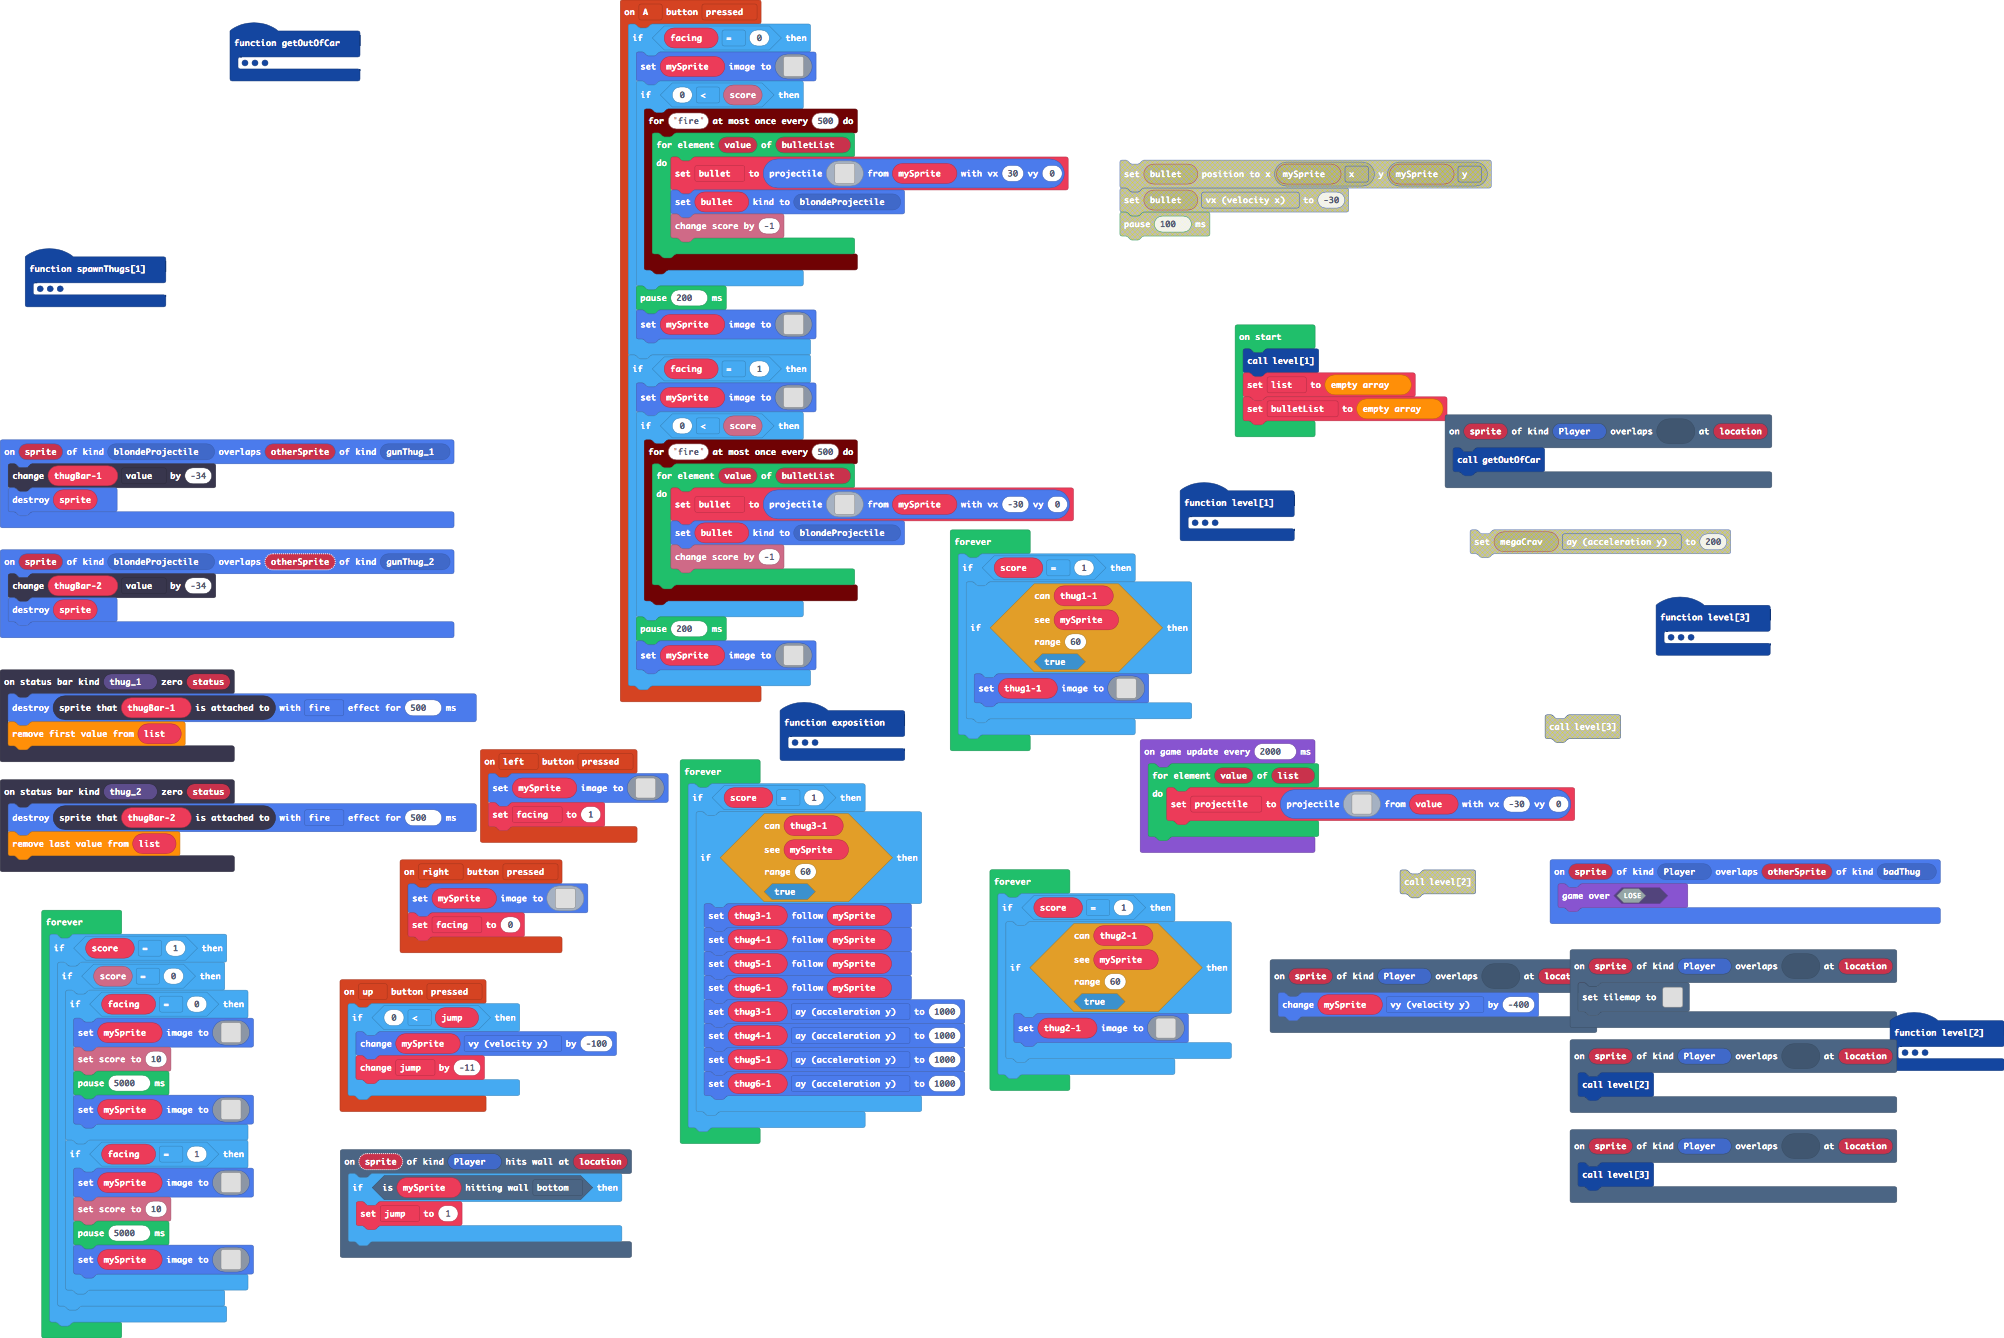
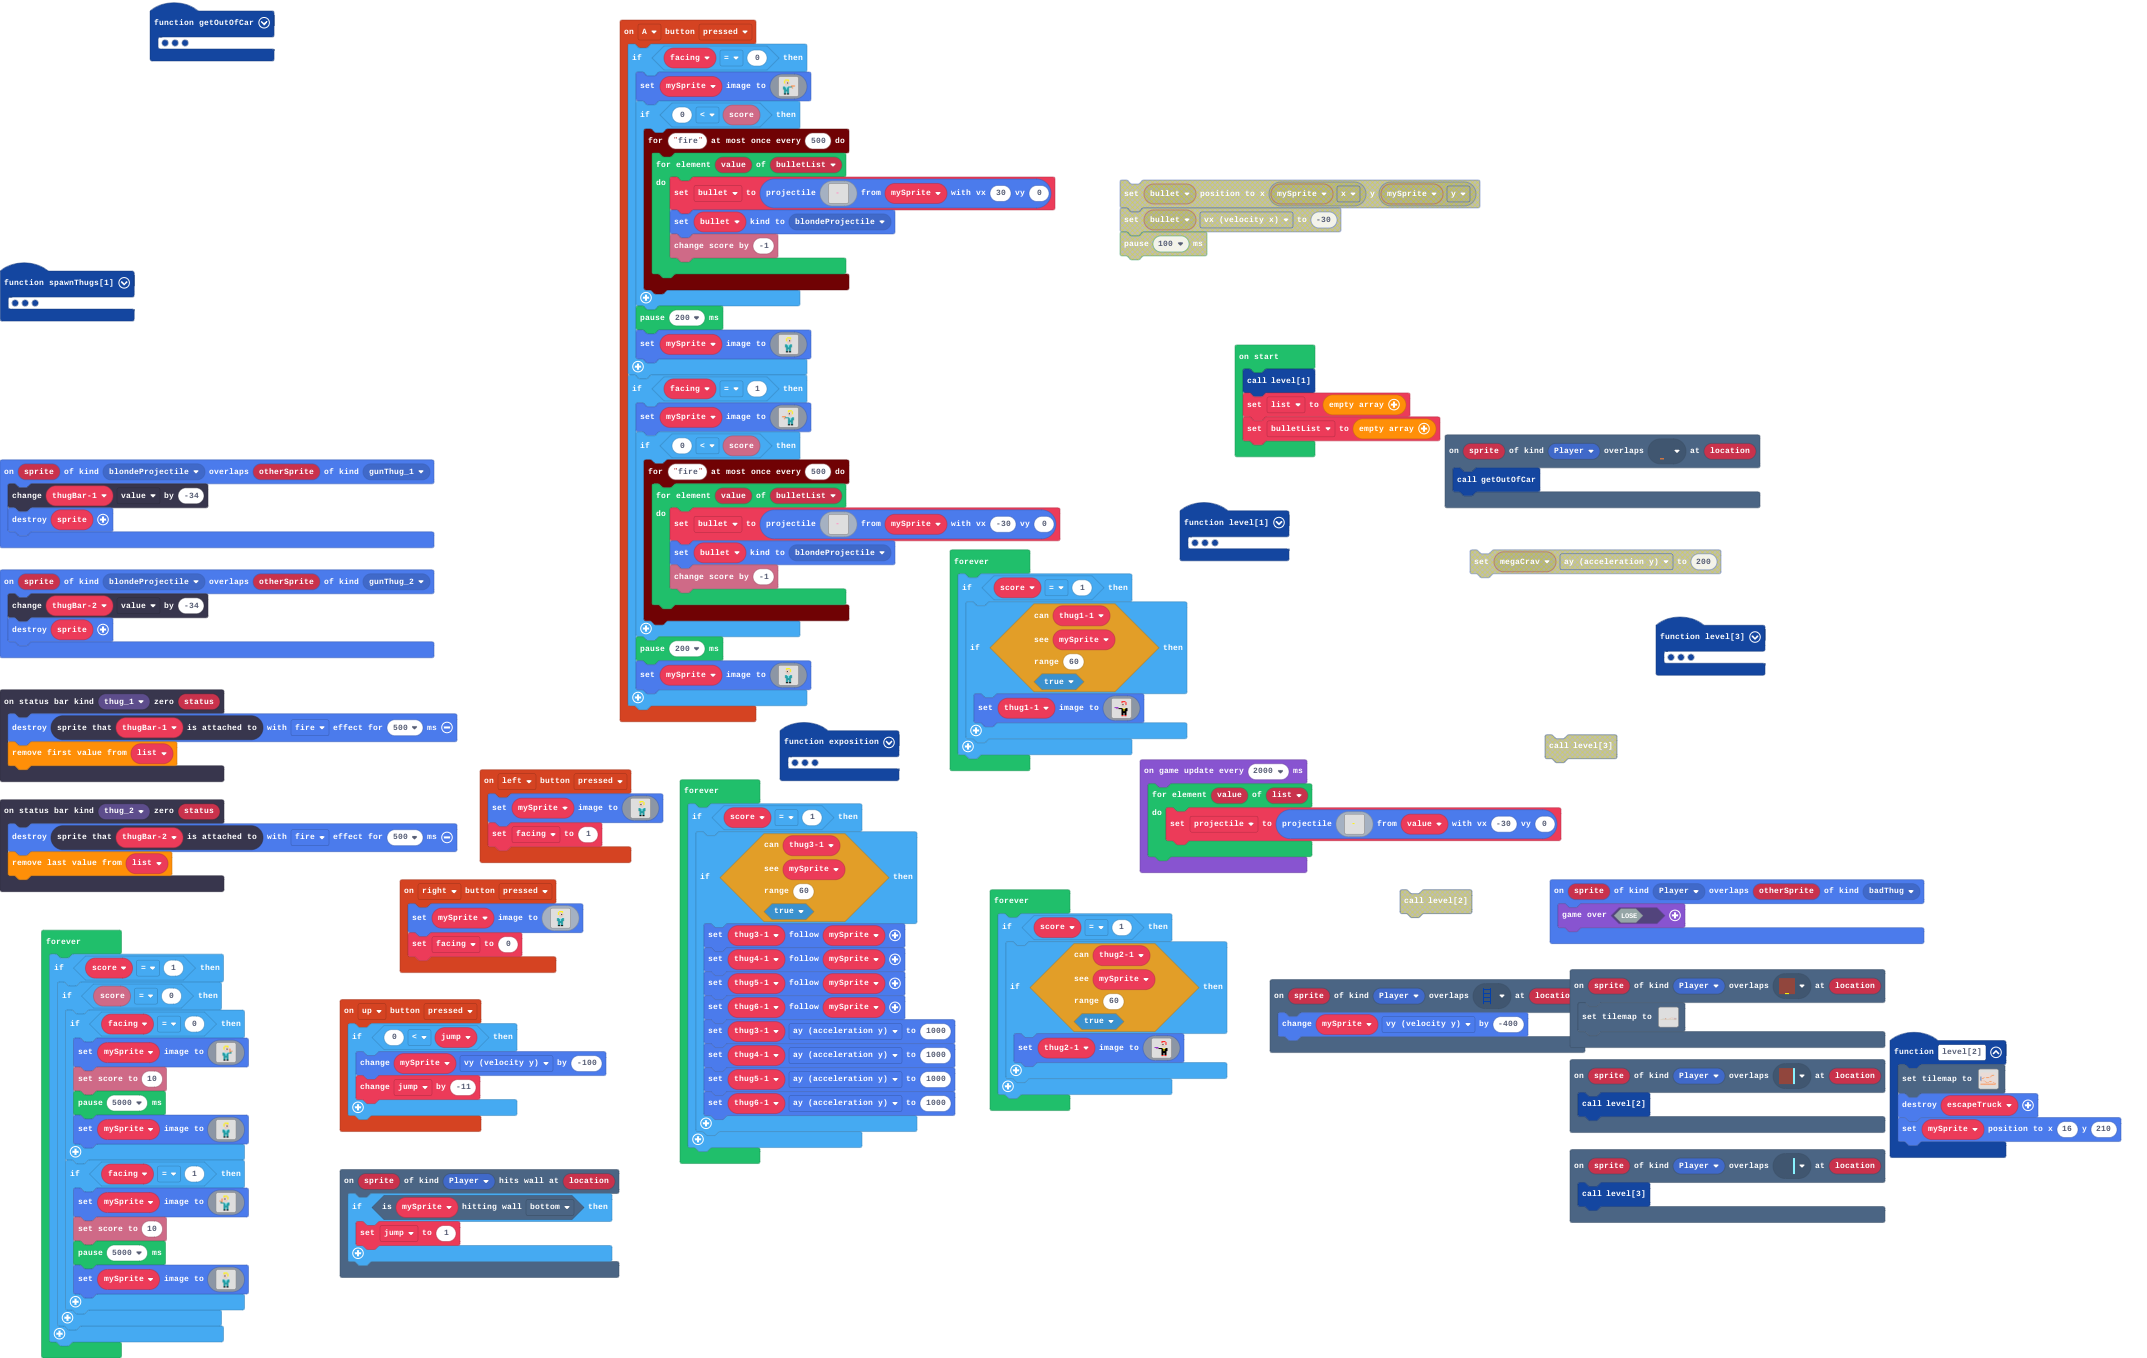
Update main.blocks, main.ts, tilemap.g.ts

diff --git a/tilemap.g.ts b/tilemap.g.ts
@@ -326,6 +326,25 @@ namespace myTiles {
 . . . . . . . . . . . . . . . . 
 . . . . . . . . . . . . . . . . 
 `, [myTiles.transparency16], TileScale.Sixteen);
+            case "level15":
+            case "level15":return tiles.createTilemap(hex`1000100000000000000000000000000000000000000000000000000000000000000000000000000000000000000000000000000000000000000000000000000000000000000000000000000000000000000000000000000000000000000000000000000000000000000000000000000000000000000000000000000000000000000000000000000000000000000000000000000000000000000000000000000000000000000000000000000000000000000000000000000000000000000000000000000000000000000000000000000000000000000000000000000000000000000000000000000000000000000000000000000000000000000000000000000000000000`, img`
+. . . . . . . . . . . . . . . . 
+. . . . . . . . . . . . . . . . 
+. . . . . . . . . . . . . . . . 
+. . . . . . . . . . . . . . . . 
+. . . . . . . . . . . . . . . . 
+. . . . . . . . . . . . . . . . 
+. . . . . . . . . . . . . . . . 
+. . . . . . . . . . . . . . . . 
+. . . . . . . . . . . . . . . . 
+. . . . . . . . . . . . . . . . 
+. . . . . . . . . . . . . . . . 
+. . . . . . . . . . . . . . . . 
+. . . . . . . . . . . . . . . . 
+. . . . . . . . . . . . . . . . 
+. . . . . . . . . . . . . . . . 
+. . . . . . . . . . . . . . . . 
+`, [myTiles.transparency16], TileScale.Sixteen);
         }
         return null;
     })

diff --git a/main.ts b/main.ts
@@ -414,6 +414,10 @@ function getOutOfCar () {
     mySprite.ay = 200
     controller.moveSprite(mySprite, 100, 0)
     scene.cameraFollowSprite(mySprite)
+    statusbar = statusbars.create(4, 50, StatusBarKind.Health)
+    statusbar.setColor(7, 2)
+    statusbar.setOffsetPadding(2, 2)
+    statusbar.positionDirection(CollisionDirection.Left)
     spawnThugs1()
 }
 scene.onOverlapTile(SpriteKind.Player, assets.tile`myTile25`, function (sprite, location) {
@@ -645,6 +649,7 @@ function level1 () {
 }
 function level2 () {
     tiles.setTilemap(tilemap`level10`)
+    escapeTruck.destroy()
     mySprite.setPosition(16, 210)
 }
 function exposition () {
@@ -668,6 +673,7 @@ scene.onOverlapTile(SpriteKind.Player, assets.tile`myTile26`, function (sprite, 
     mySprite.vy += -400
 })
 let projectile: Sprite = null
+let statusbar: StatusBarSprite = null
 let escapeTruck: Sprite = null
 let megaCrav: Sprite = null
 let bullet: Sprite = null
